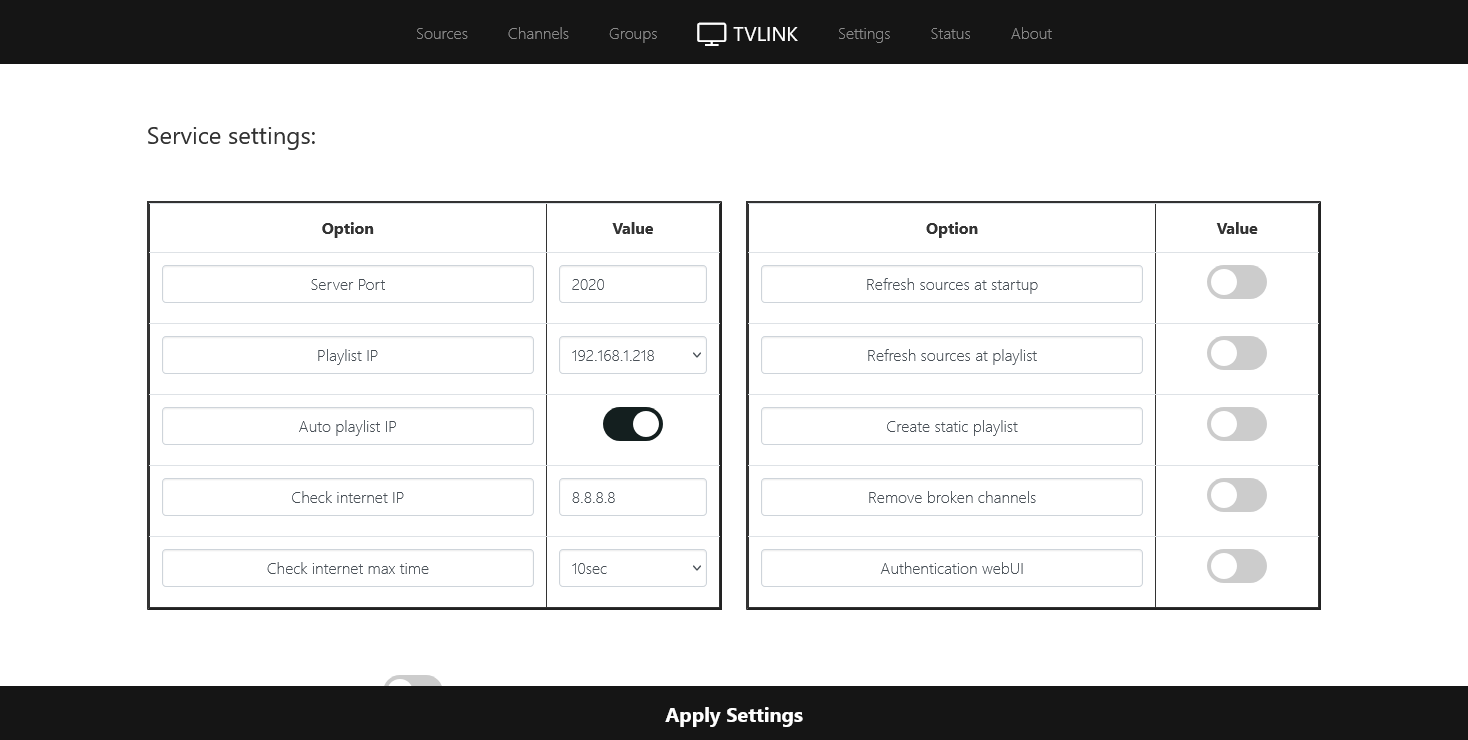
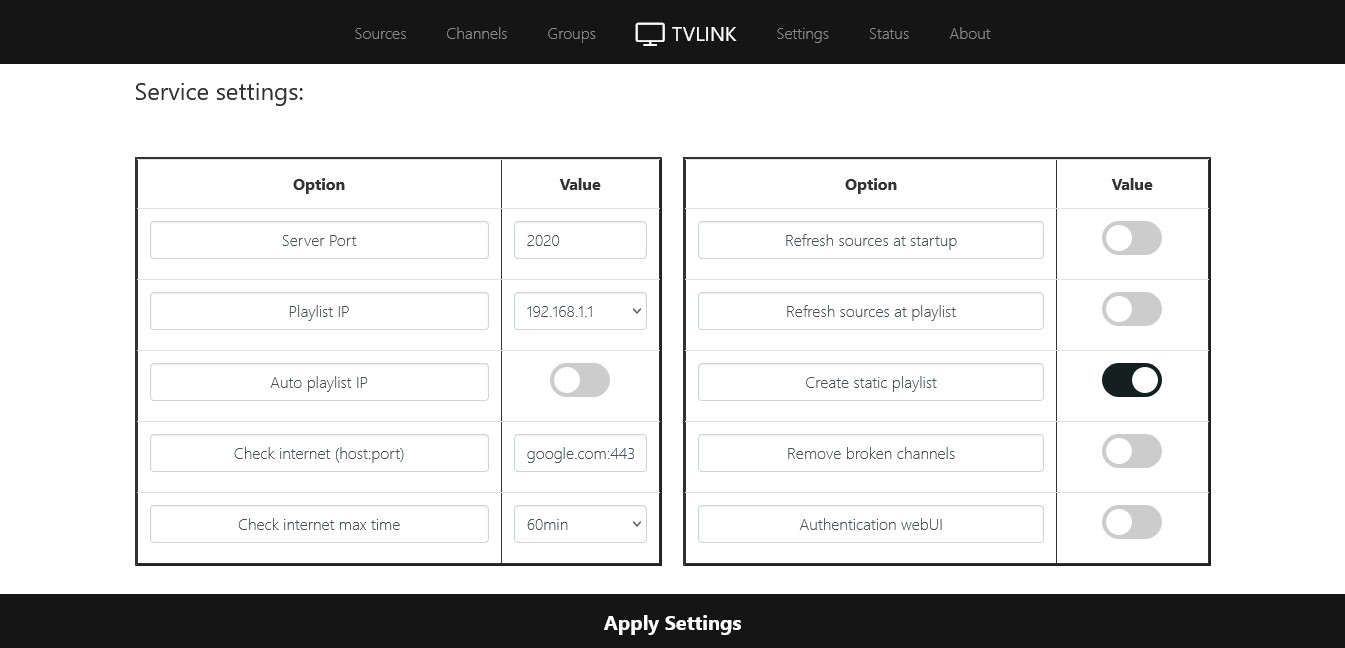
tvlink/settings: update "Check internet" option

diff --git a/content.uk/docs/tvlink/docs/settings.md b/content.uk/docs/tvlink/docs/settings.md
@@ -24,8 +24,9 @@ weight: 18
 
 + «Auto playlist IP» – якщо цю опцію ввімкнено, «TVLINK» використовуватиме ту IP-адресу в плейлисті, з якої надходить запит від клієнта.
 
-+ «Check internet IP» – IP-адреса, за якою «TVLINK» перевіряє підключення до інтернету. За замовчуванням використовується адреса «8.8.8.8».
-Якщо вам потрібно змінити цю адресу перед запуском програми, створіть файл «check-internet.ip» у каталозі tvlink і впишіть туди потрібну адресу.
++ «Check internet (host:port)» – це адреса (хост і порт), за якою «TVLINK» перевіряє підключення до інтернету.
+Хост може бути як доменним іменем, так і IP-адресою, наприклад «8.8.8.8:53». За замовчуванням використовується «google.com:443».
+Якщо вам потрібно змінити цю опцію перед запуском програми, створіть файл «check-internet.ip» у каталозі tvlink та впишіть туди потрібну адресу.
 
 + «Check internet max time» – максимальний час, протягом якого «TVLINK» перевіряє підключення до інтернету. Програма не запуститься, доки не матиме доступу до інтернету.
 

diff --git a/content.en/docs/tvlink/docs/settings.md b/content.en/docs/tvlink/docs/settings.md
@@ -24,8 +24,9 @@ The «Refresh sources at playlist» and «Remove broken channels» options do no
 
 + «Auto playlist IP» – if this option is enabled, «TVLINK» will use the IP address in the playlist from which the client's request originates.
 
-+ «Check internet IP» – the IP address that «TVLINK» uses to check the internet connection. The default address is «8.8.8.8».
-If you need to change this address before running the program, create a file named «check-internet.ip» in the tvlink directory and enter the required address there.
++ «Check internet (host:port)» – the address (host and port) that «TVLINK» uses to check its internet connection.
+The host can be either a domain name or an IP address, for example, «8.8.8.8:53». The default address is «google.com:443».
+If you need to change this option before starting the program, create a file named «check-internet.ip» in the tvlink directory and enter the required address there.
 
 + «Check internet max time» – the maximum time during which «TVLINK» checks the internet connection. The program will not start until it has internet access.
 
